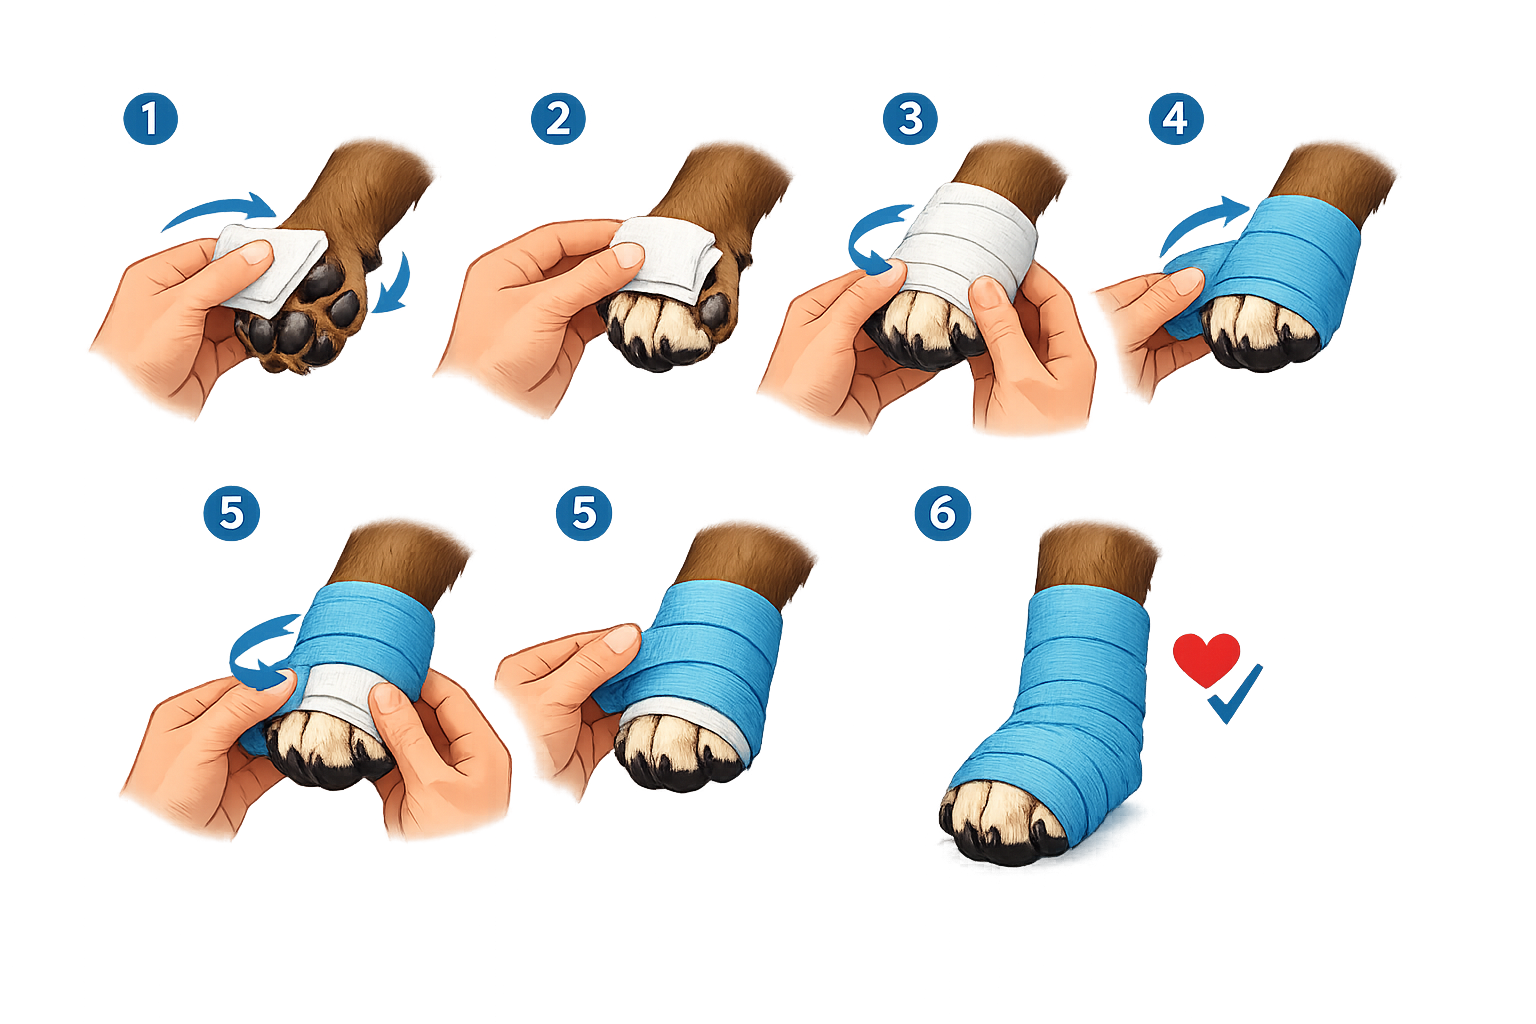
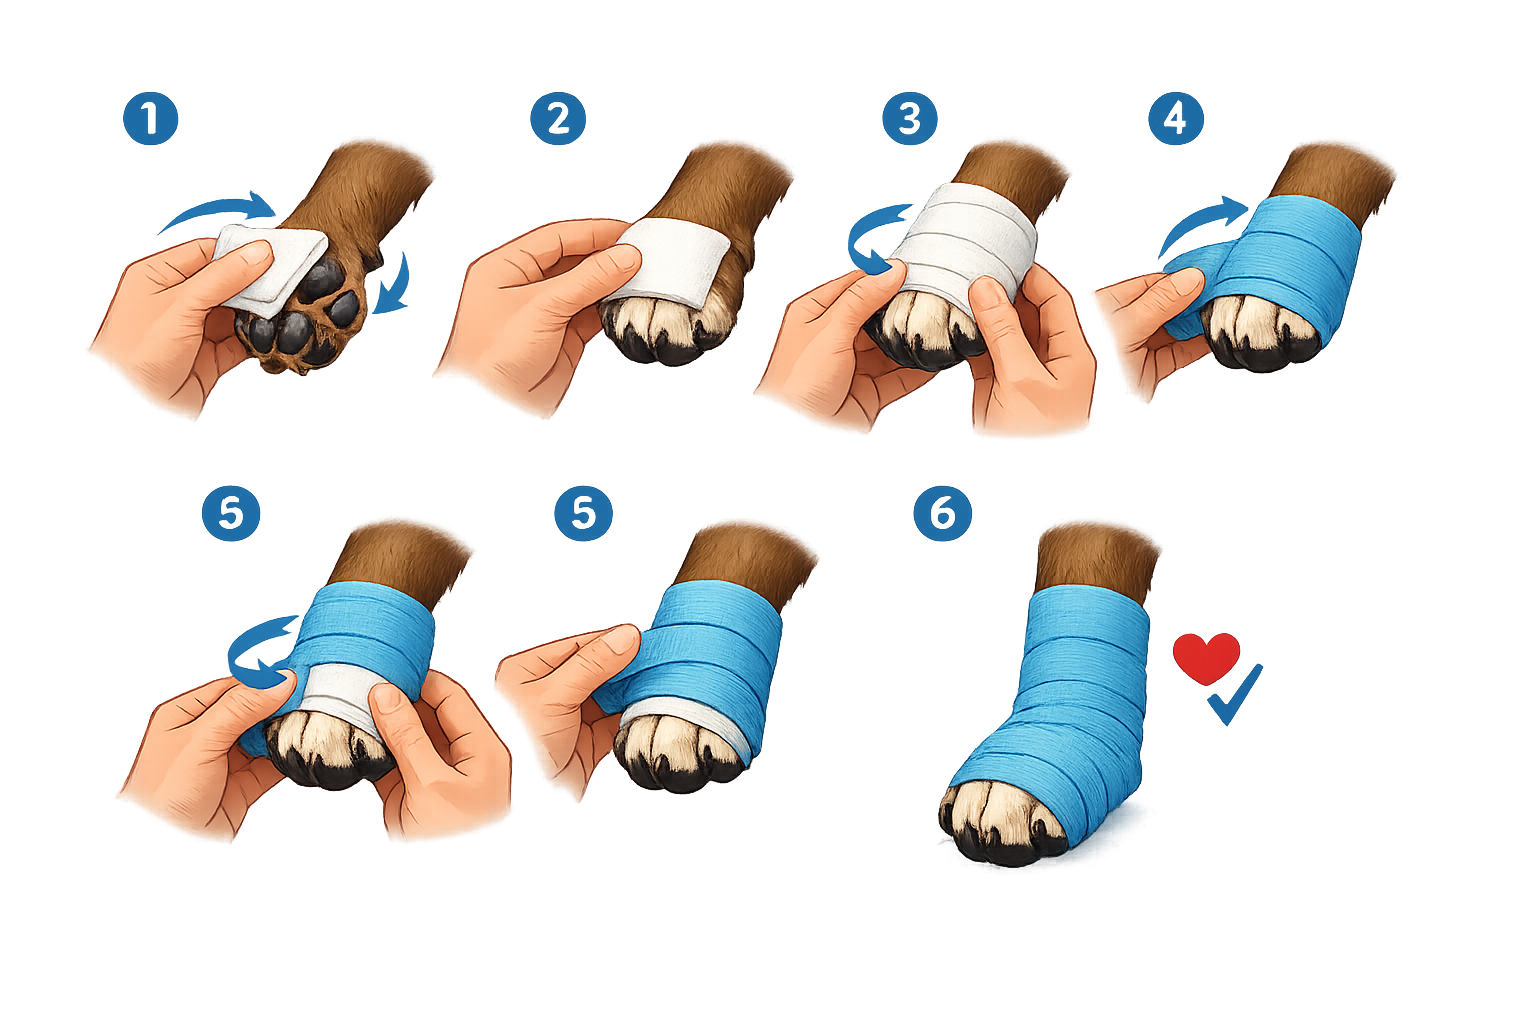
update healthadvice

diff --git a/frontend/src/components/HomePharmacy.tsx b/frontend/src/components/HomePharmacy.tsx
@@ -1,0 +1,42 @@
+import "../css/NavViews.css"
+
+const HomePharmacy = () => {
+const homePharmacyItems = [
+"Förebyggande medel mot fästingar",
+"Pincett",
+"Sax",
+"Tandborste",
+"Tandrengöringsmedel",
+"Tandstensskrapa",
+"Klotång",
+"Blodstillande medel",
+"Febertermometer",
+"Desinfektionsmedel (t.ex klorhexidinlösning)",
+"Tassalva",
+"Gasbinda, bomull",
+"Självhäftande bandage",
+"Sterila kompresser",
+"Halskrage",
+"Ögonvatten",
+"Öronrengöringsmedel",
+"Doseringsspruta"
+]
+
+return (
+<>
+    <div className="healthadvice-card">
+        <h3 className="healthadivce-header">Husapotek</h3>
+        <p className="healthadvice-paragraph">Ett litet apotek för ditt djur bör innehålla följande</p>
+        <ul className="healthadvice-list">
+            {homePharmacyItems.map((item, index) => (
+                <li key={index} className="healthadivce-li">{item}</li>
+            ))}
+        </ul>
+        <p className="healthadvice-paragraph-italic">Tips! De flesta djurbutiker och veterinärkliniker säljer första hjälpen kit för husdjur</p>
+    </div>
+
+</>
+)
+}
+
+export default HomePharmacy

diff --git a/frontend/src/components/HealthAdvice.tsx b/frontend/src/components/HealthAdvice.tsx
@@ -1,5 +1,6 @@
 import VeternaryExam from "./VeternaryExam";
 import WoundCare from "./WoundCare";
+import HomePharmacy from "./HomePharmacy";
 
 const HealthAdvice = () => {
   return (
@@ -7,6 +8,7 @@ const HealthAdvice = () => {
       <h1 className="headerViews">Hälsoråd</h1>
       <VeternaryExam/>
       <WoundCare/>
+      <HomePharmacy/>
     </>
   );
 };

diff --git a/frontend/src/components/VeternaryExam.tsx b/frontend/src/components/VeternaryExam.tsx
@@ -4,7 +4,7 @@ const VeternaryExam = () => {
     const examItems = [
         "Ras, ålder, kön",
         "Aktuell kroppstemperatur (även djurets normala temperatur)",
-        "Allmänt beteende (t.ex slö, normal, orolig",
+        "Allmänt beteende (t.ex slö, normal, orolig)",
         "Andning (normal eller onormal",
         "Pälsen",
         "Aptiten",

diff --git a/frontend/src/css/NavViews.css b/frontend/src/css/NavViews.css
@@ -27,6 +27,12 @@
     font-family: "DM Sans", sans-serif;
 }
 
+.healthadvice-paragraph-italic {
+    font-style: italic;
+    color: #39413c;
+    font-family: "DM Sans", sans-serif;
+}
+
 .headerViews {
     margin-top: 15px;
     text-align: center;
